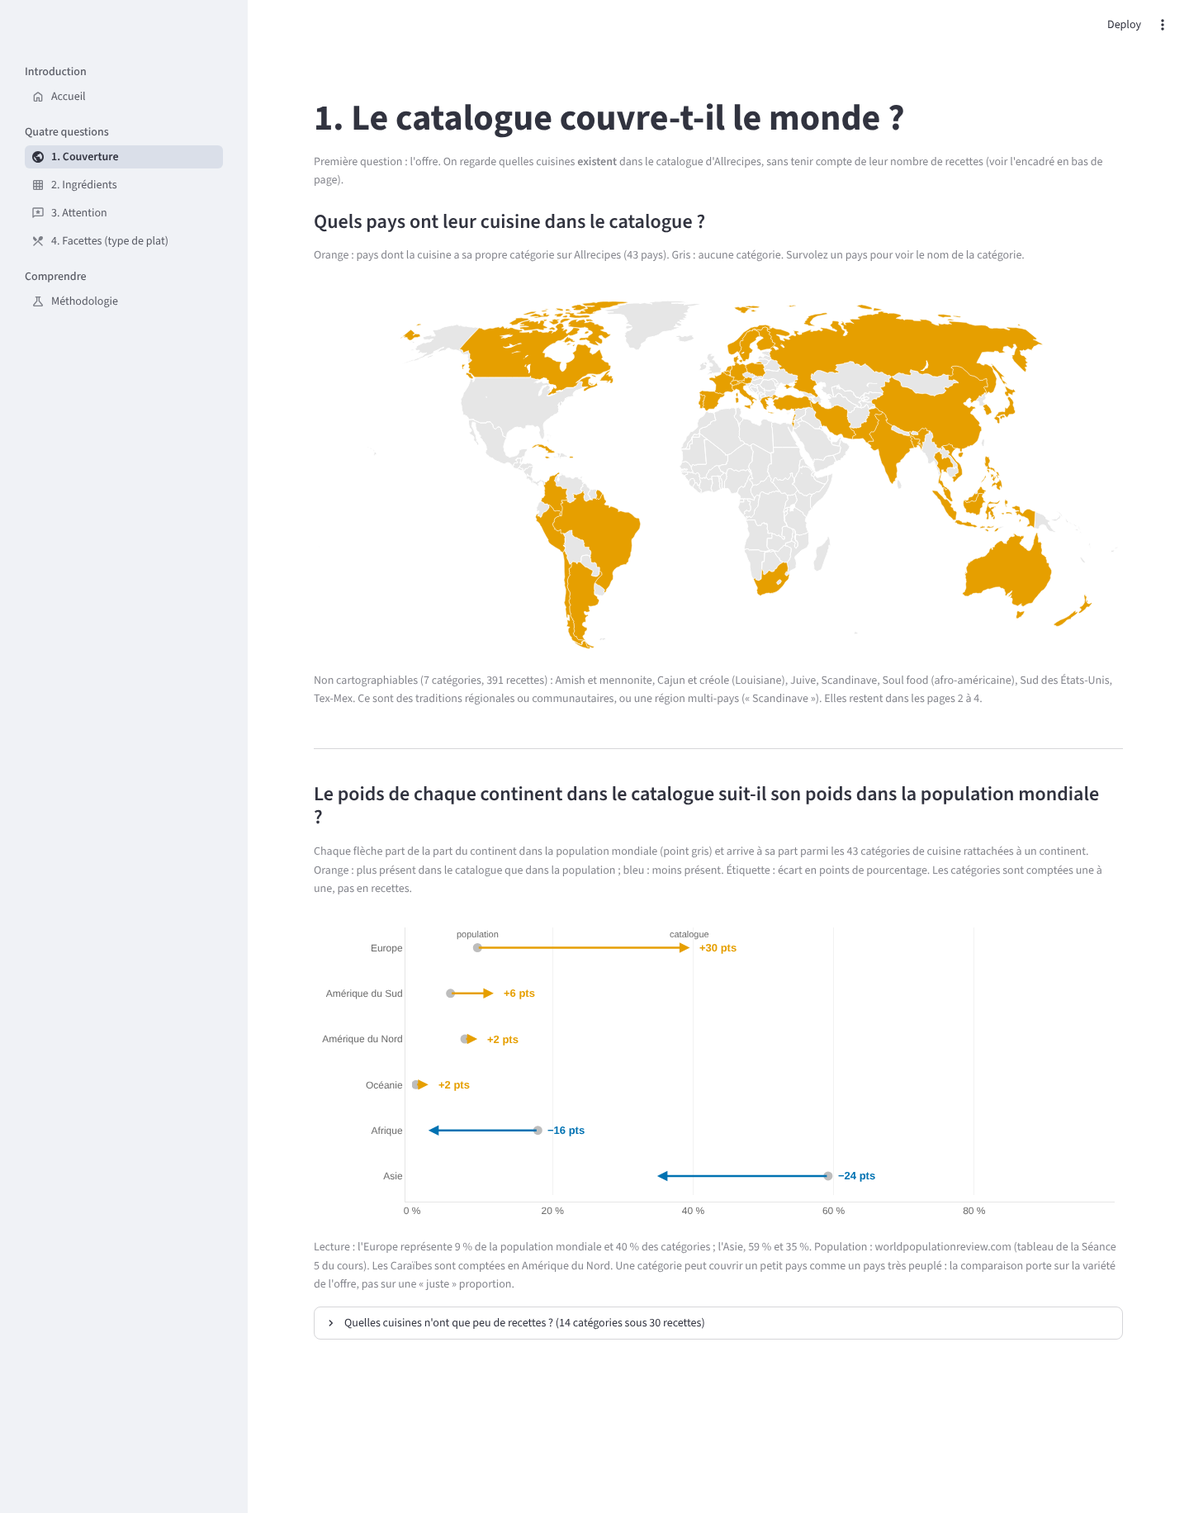
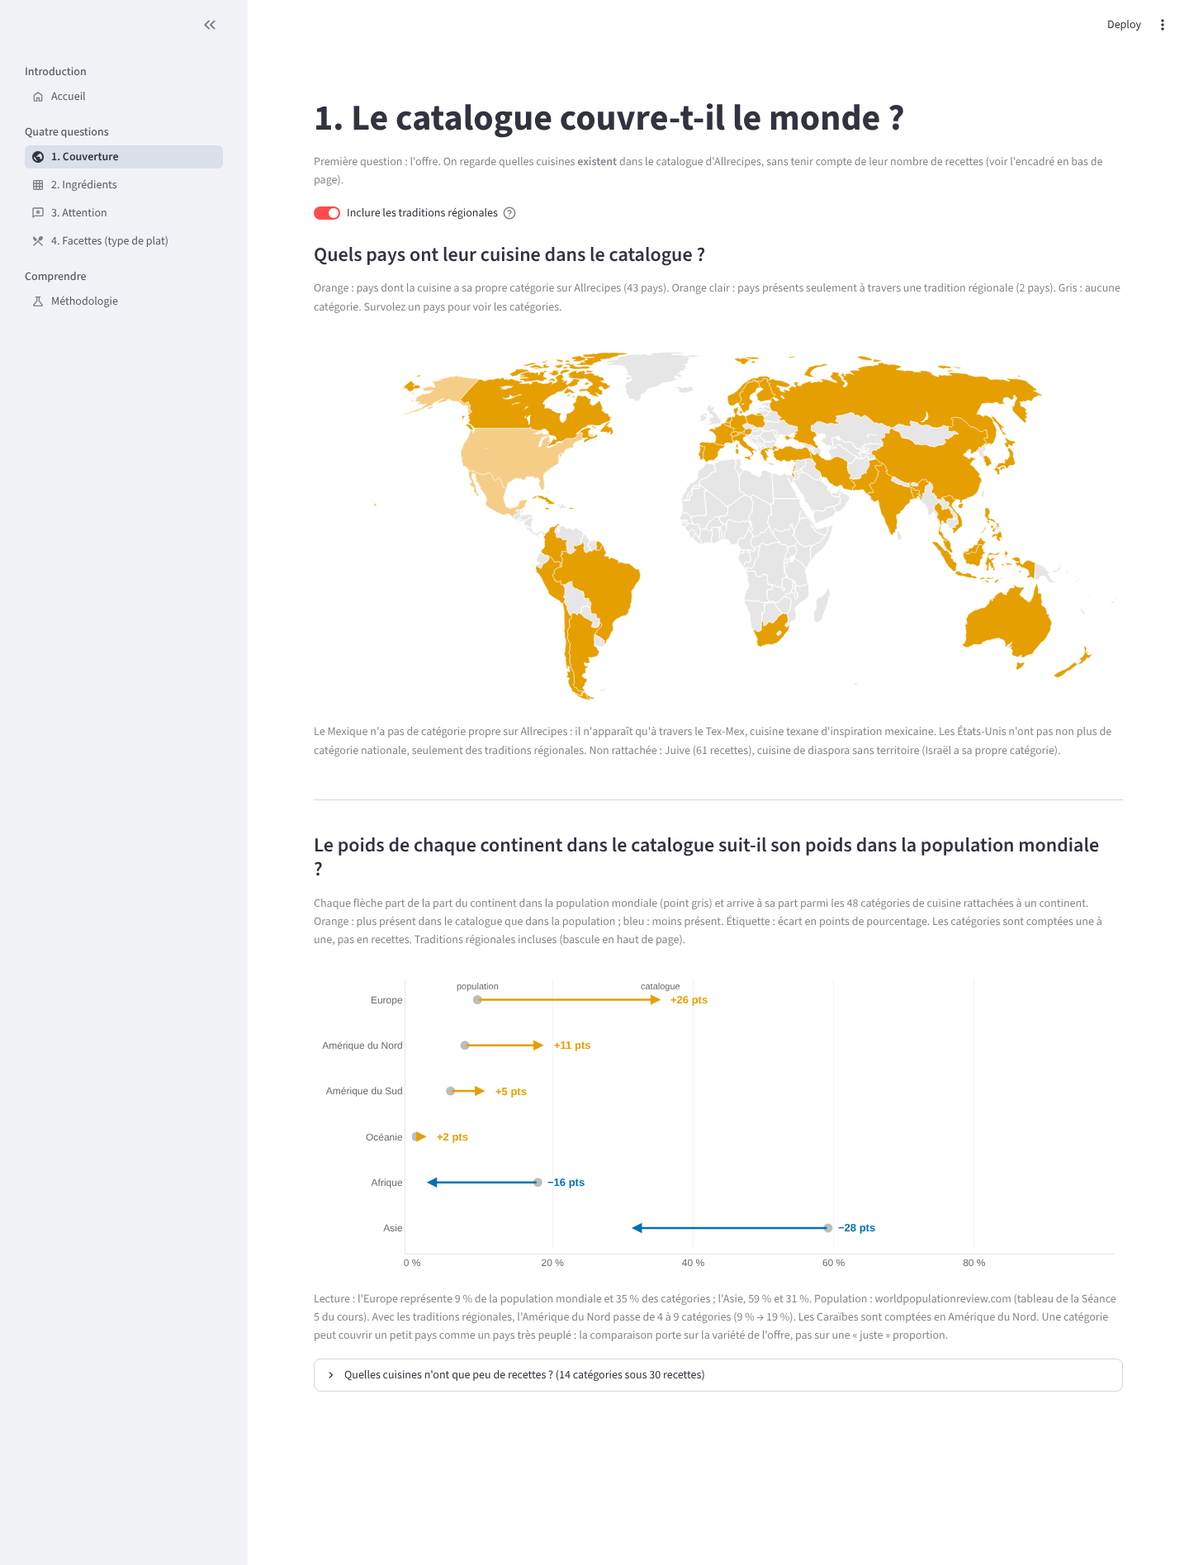
feat(page 1) : bascule « traditions régionales » — rattachement à leur territoire
- REGIONAL_ZONES (src/country_mapping.py) : traditions américaines et amish
  -> États-Unis, Tex-Mex -> États-Unis et Mexique, Scandinave -> DK/NO/SE ;
  cuisine juive non rattachée.
- Carte à trois états (nationale / indirecte / absente), teinte claire
  validée en simulation de daltonisme.
- Flèches par continent sur deux périmètres (43 ou 48 catégories).
- Méthodologie et journal mis à jour.

Claude-Session: https://claude.ai/code/session_01NHCujwLP8sEkThUbx8uit6

Changed region(s): [[0.25, 0.0622, 0.9375, 0.7778], [0.25, 0.7778, 0.9375, 0.9023], [0.0312, 0.0311, 0.0938, 0.2178]]

diff --git a/app_pages/1_Couverture.py b/app_pages/1_Couverture.py
@@ -4,7 +4,7 @@ import streamlit as st
 
 from src.load_data import load_processed, load_stats
 from src.theme import (
-    ACCENT, DIV_NEG, DIV_POS, GREY, GREY_LIGHT, MUTED, apply_theme,
+    ACCENT, ACCENT_LIGHT, DIV_NEG, DIV_POS, GREY, GREY_LIGHT, MUTED, apply_theme,
     chart_title, fmt_int, fmt_num, fmt_pct, show,
 )
 
@@ -20,22 +20,46 @@ st.caption(
     "recettes (voir l'encadré en bas de page)."
 )
 
-# --- Carte présent / absent ---------------------------------------------------
-not_mapped = catalog[(catalog["map_type"] != "single_country")
-                     & (~catalog["country"].isin(presence["country"]))]
-chart_title(
-    "Quels pays ont leur cuisine dans le catalogue ?",
-    f"Orange : pays dont la cuisine a sa propre catégorie sur Allrecipes "
-    f"({fmt_int(stats['n_pays_carte'])} pays). Gris : aucune catégorie. "
-    f"Survolez un pays pour voir le nom de la catégorie.",
+with_regional = st.toggle(
+    "Inclure les traditions régionales",
+    value=True,
+    help="Rattache les catégories qui ne sont pas des cuisines nationales à leur "
+         "territoire d'origine : soul food, cajun et créole, Sud des États-Unis, "
+         "amish et Tex-Mex aux États-Unis (Tex-Mex aussi au Mexique), Scandinave au "
+         "Danemark, à la Norvège et à la Suède. Désactivé : seules les catégories "
+         "nationales comptent.",
 )
+
+# --- Carte présent / absent ---------------------------------------------------
+NATIONAL, INDIRECT = "Catégorie nationale", "Présence indirecte (tradition régionale)"
+shown = presence if with_regional else presence[presence["statut"] == "nationale"]
+by_iso = (
+    shown.assign(label=shown["cuisine"].where(
+        shown["statut"] == "nationale", shown["cuisine"] + " (indirecte)"))
+    .groupby("iso3")
+    .agg(statut=("statut", lambda s: NATIONAL if (s == "nationale").any() else INDIRECT),
+         cuisines=("label", lambda s: "<br>".join(s)))
+    .reset_index()
+)
+n_national = int((by_iso["statut"] == NATIONAL).sum())
+n_indirect = int((by_iso["statut"] == INDIRECT).sum())
+not_mapped = catalog[~catalog["country"].isin(shown["country"])
+                     & (catalog["map_type"] != "single_country")]
+
+subtitle = (f"Orange : pays dont la cuisine a sa propre catégorie sur Allrecipes "
+            f"({fmt_int(n_national)} pays). ")
+if with_regional:
+    subtitle += (f"Orange clair : pays présents seulement à travers une tradition "
+                 f"régionale ({fmt_int(n_indirect)} pays). ")
+subtitle += "Gris : aucune catégorie. Survolez un pays pour voir les catégories."
+chart_title("Quels pays ont leur cuisine dans le catalogue ?", subtitle)
+
 fig = px.choropleth(
-    presence.assign(statut="Cuisine proposée"),
-    locations="iso3",
-    color="statut",
-    color_discrete_map={"Cuisine proposée": ACCENT},
-    hover_name="cuisine",
-    hover_data={"iso3": False, "statut": False},
+    by_iso, locations="iso3", color="statut",
+    color_discrete_map={NATIONAL: ACCENT, INDIRECT: ACCENT_LIGHT},
+    category_orders={"statut": [NATIONAL, INDIRECT]},
+    hover_name="cuisines",
+    hover_data={"iso3": False, "statut": False, "cuisines": False},
 )
 fig.update_traces(marker_line_color="white", marker_line_width=0.5)
 fig.update_geos(
@@ -49,18 +73,33 @@ fig.update_geos(
 apply_theme(fig, height=460)
 fig.update_layout(showlegend=False, margin=dict(l=0, r=0, t=0, b=0))
 show(fig)
-st.caption(
-    f"Non cartographiables ({len(not_mapped)} catégories, "
-    f"{fmt_int(not_mapped['n_recettes'].sum())} recettes) : "
-    + ", ".join(sorted(not_mapped["cuisine"]))
-    + ". Ce sont des traditions régionales ou communautaires, ou une région "
-    "multi-pays (« Scandinave »). Elles restent dans les pages 2 à 4."
-)
+
+if with_regional:
+    st.caption(
+        "Le Mexique n'a pas de catégorie propre sur Allrecipes : il n'apparaît qu'à "
+        "travers le Tex-Mex, cuisine texane d'inspiration mexicaine. Les États-Unis "
+        "n'ont pas non plus de catégorie nationale, seulement des traditions "
+        "régionales. Non rattachée : "
+        + ", ".join(f"{c} ({fmt_int(n)} recettes)"
+                    for c, n in zip(not_mapped["cuisine"], not_mapped["n_recettes"]))
+        + ", cuisine de diaspora sans territoire (Israël a sa propre catégorie)."
+    )
+else:
+    st.caption(
+        f"Non cartographiables ({len(not_mapped)} catégories, "
+        f"{fmt_int(not_mapped['n_recettes'].sum())} recettes) : "
+        + ", ".join(sorted(not_mapped["cuisine"]))
+        + ". Ce sont des traditions régionales ou communautaires, ou une région "
+        "multi-pays (« Scandinave »). Elles restent dans les pages 2 à 4."
+    )
 
 st.divider()
 
 # --- Diagramme à flèches par continent ------------------------------------------
-n_cont = int(stats["n_categories_continent"])
+perimetre = "regional" if with_regional else "national"
+continents = continents[continents["perimetre"] == perimetre]
+n_cont = int(stats["n_categories_continent_regional" if with_regional
+                   else "n_categories_continent"])
 chart_title(
     "Le poids de chaque continent dans le catalogue suit-il son poids dans la population mondiale ?",
     f"Chaque flèche part de la part du continent dans la population mondiale "
@@ -68,7 +107,9 @@ chart_title(
     f"cuisine rattachées à un continent. Orange : plus présent dans le "
     f"catalogue que dans la population ; bleu : moins présent. Étiquette : "
     f"écart en points de pourcentage. Les catégories sont comptées une à une, "
-    f"pas en recettes.",
+    f"pas en recettes."
+    + (" Traditions régionales incluses (bascule en haut de page)." if with_regional
+       else " Catégories nationales et multi-pays seulement."),
 )
 
 c = continents.sort_values("ecart_points")  # le plus sous-représenté en bas
@@ -113,6 +154,9 @@ fig.update_xaxes(range=[0, 100], ticksuffix=" %", showgrid=True,
 fig.update_yaxes(title_text=None)
 show(fig)
 
+all_perim = load_processed("continent_summary").set_index(["perimetre", "continent"])
+na_nat = all_perim.loc[("national", "Amérique du Nord")]
+na_reg = all_perim.loc[("regional", "Amérique du Nord")]
 asia = continents.set_index("continent").loc["Asie"]
 europe = continents.set_index("continent").loc["Europe"]
 st.caption(
@@ -120,7 +164,11 @@ st.caption(
     f"population mondiale et {fmt_pct(europe['pct_categories'])} des catégories ; "
     f"l'Asie, {fmt_pct(asia['pct_population'])} et "
     f"{fmt_pct(asia['pct_categories'])}. Population : worldpopulationreview.com "
-    f"(tableau de la Séance 5 du cours). Les Caraïbes sont comptées en Amérique "
+    f"(tableau de la Séance 5 du cours). Avec les traditions régionales, l'Amérique "
+    f"du Nord passe de {fmt_int(na_nat['n_categories'])} à "
+    f"{fmt_int(na_reg['n_categories'])} catégories "
+    f"({fmt_pct(na_nat['pct_categories'])} → {fmt_pct(na_reg['pct_categories'])}). "
+    f"Les Caraïbes sont comptées en Amérique "
     f"du Nord. Une catégorie peut couvrir un petit pays comme un pays très "
     f"peuplé : la comparaison porte sur la variété de l'offre, pas sur "
     f"une « juste » proportion."

diff --git a/data_processing/build_diversity_data.py b/data_processing/build_diversity_data.py
@@ -32,7 +32,8 @@ from scipy.spatial.distance import pdist, squareform
 from scipy.stats import spearmanr
 
 from src.country_mapping import (
-    CONTINENTS, CUISINE_LABELS_FR, EXTRA_MAP_ISO3, attach_iso3, get_continent,
+    CONTINENTS, CUISINE_LABELS_FR, EXTRA_MAP_ISO3, REGIONAL_ZONES, attach_iso3,
+    get_continent, get_zone_continent,
 )
 from src.dish_type import DESSERT, DISH_GROUPS, classify_dish
 from src.ingredients import INGREDIENT_LABELS, ingredient_presence
@@ -80,25 +81,41 @@ def build_coverage(df: pd.DataFrame) -> tuple[pd.DataFrame, pd.DataFrame, pd.Dat
         .size().reset_index(name="n_recettes")
         .sort_values("n_recettes", ascending=False)
     )
+    catalog["continent_zone"] = catalog["country"].map(get_zone_continent)
 
     pop = pd.read_csv(REF_DIR / "population_continent.csv")
     assert set(pop["continent"]) == set(CONTINENTS), "continents incohérents"
     pop["pct_population"] = pop["population_millions"] / pop["population_millions"].sum()
 
-    with_cont = catalog.dropna(subset=["continent"])
-    cats = with_cont.groupby("continent").size().rename("n_categories")
-    summary = pop.merge(cats, left_on="continent", right_index=True, how="left")
-    summary["n_categories"] = summary["n_categories"].fillna(0).astype(int)
-    summary["pct_categories"] = summary["n_categories"] / summary["n_categories"].sum()
-    summary["ecart_points"] = 100 * (summary["pct_categories"] - summary["pct_population"])
-    summary = summary.sort_values("ecart_points").reset_index(drop=True)
+    # Deux périmètres (bascule de la page 1) : catégories rattachées
+    # directement à un continent, ou aussi les traditions régionales
+    # rattachées à leur territoire d'origine (src/country_mapping.REGIONAL_ZONES).
+    summaries = []
+    for perimetre, col in [("national", "continent"), ("regional", "continent_zone")]:
+        cats = catalog.dropna(subset=[col]).groupby(col).size().rename("n_categories")
+        summary = pop.merge(cats, left_on="continent", right_index=True, how="left")
+        summary["n_categories"] = summary["n_categories"].fillna(0).astype(int)
+        summary["pct_categories"] = summary["n_categories"] / summary["n_categories"].sum()
+        summary["ecart_points"] = 100 * (summary["pct_categories"] - summary["pct_population"])
+        summary["perimetre"] = perimetre
+        summaries.append(summary.sort_values("ecart_points"))
+    summary = pd.concat(summaries, ignore_index=True)
 
-    present = catalog[catalog["map_type"] == "single_country"][["iso3", "country", "cuisine"]]
-    extra = [
-        {"iso3": iso, "country": cat, "cuisine": CUISINE_LABELS_FR[cat]}
+    # Présence sur la carte : « nationale » (catégorie propre au pays) ou
+    # « indirecte » (tradition régionale ou catégorie multi-pays).
+    rows = [
+        {"iso3": r.iso3, "country": r.country, "cuisine": r.cuisine, "statut": "nationale"}
+        for r in catalog[catalog["map_type"] == "single_country"].itertuples()
+    ]
+    rows += [
+        {"iso3": iso, "country": cat, "cuisine": CUISINE_LABELS_FR[cat], "statut": "nationale"}
         for cat, isos in EXTRA_MAP_ISO3.items() for iso in isos
     ]
-    map_presence = pd.concat([present, pd.DataFrame(extra)], ignore_index=True)
+    rows += [
+        {"iso3": iso, "country": cat, "cuisine": CUISINE_LABELS_FR[cat], "statut": "indirecte"}
+        for cat, zone in REGIONAL_ZONES.items() for iso in zone["iso3"]
+    ]
+    map_presence = pd.DataFrame(rows)
     return catalog, summary, map_presence
 
 
@@ -338,7 +355,9 @@ def build():
         "n_categories_continent": int(catalog["continent"].notna().sum()),
         "n_categories_single_country": int((catalog["map_type"] == "single_country").sum()),
         "n_recettes_single_country": int(catalog.loc[catalog["map_type"] == "single_country", "n_recettes"].sum()),
-        "n_pays_carte": int(map_presence["iso3"].nunique()),
+        "n_pays_carte": int(map_presence.loc[map_presence["statut"] == "nationale", "iso3"].nunique()),
+        "n_pays_carte_avec_regional": int(map_presence["iso3"].nunique()),
+        "n_categories_continent_regional": int(catalog["continent_zone"].notna().sum()),
         "seuil_plafond": CAP_RECIPES,
         "annee_recente": int(RECENT_FROM[:4]),
         "n_categories_plafond": int((catalog["n_recettes"] >= CAP_RECIPES).sum()),
@@ -364,7 +383,7 @@ def build():
         OUT_DIR / "diversity_stats.parquet", index=False)
 
     # Tableau de contrôle (valeurs du brief)
-    cs = continent_summary.set_index("continent")
+    cs = continent_summary[continent_summary["perimetre"] == "national"].set_index("continent")
     pays_freq = freq_matrix(freq, "tout")
     pays_freq = pays_freq[pays_freq.index.isin(catalog.loc[catalog.map_type == "single_country", "country"])]
     att = attention.set_index("country")["avis_par_recette"]

diff --git a/app_pages/6_Methodologie.py b/app_pages/6_Methodologie.py
@@ -77,23 +77,36 @@ st.markdown(
 
 st.subheader("4. Continents et population")
 st.markdown(
-    f"{fmt_int(stats['n_categories_continent'])} catégories sont rattachées à un "
-    f"continent (les Caraïbes en Amérique du Nord ; « Australienne et "
-    f"néo-zélandaise » en Océanie ; « Scandinave » en Europe). Les traditions "
-    f"régionales et communautaires restent hors de cette comparaison. Population : "
-    f"tableau worldpopulationreview.com fourni en Séance 5 du cours, agrégé par "
-    f"continent (`data/reference/population_continent.csv`). Les catégories sont "
-    f"comptées une à une, pas pondérées par leur nombre de recettes."
+    f"{fmt_int(stats['n_categories_continent'])} catégories sont rattachées "
+    f"directement à un continent (les Caraïbes en Amérique du Nord ; « Australienne "
+    f"et néo-zélandaise » en Océanie ; « Scandinave » en Europe). La bascule "
+    f"« Inclure les traditions régionales » de la page 1 rattache aussi les "
+    f"traditions à leur territoire d'origine (`REGIONAL_ZONES` dans "
+    f"`src/country_mapping.py`) : soul food, cajun et créole, Sud des États-Unis, "
+    f"amish et Tex-Mex aux États-Unis, donc à l'Amérique du Nord "
+    f"({fmt_int(stats['n_categories_continent_regional'])} catégories au total). Sur "
+    f"la carte, ces pays apparaissent en « présence indirecte » ; le Mexique n'y "
+    f"figure qu'à travers le Tex-Mex, faute de catégorie mexicaine. La cuisine juive "
+    f"(diaspora, sans territoire ; Israël a sa propre catégorie) reste non "
+    f"rattachée. Population : tableau worldpopulationreview.com fourni en Séance 5 "
+    f"du cours, agrégé par continent (`data/reference/population_continent.csv`). "
+    f"Les catégories sont comptées une à une, pas pondérées par leur nombre de "
+    f"recettes."
 )
+nat = continents[continents["perimetre"] == "national"].set_index("continent")
+reg = continents[continents["perimetre"] == "regional"].set_index("continent")
 st.dataframe(
-    continents.sort_values("pct_population", ascending=False).assign(
-        pop=lambda d: d["pct_population"].map(lambda x: fmt_pct(x, 1)),
-        cat=lambda d: d["pct_categories"].map(lambda x: fmt_pct(x, 1)),
-        ecart=lambda d: d["ecart_points"].map(lambda x: f"{fmt_num(x, 1)} pts"),
-    )[["continent", "population_millions", "pop", "n_categories", "cat", "ecart"]]
+    nat.assign(
+        pop=nat["pct_population"].map(lambda x: fmt_pct(x, 1)),
+        cat=nat["pct_categories"].map(lambda x: fmt_pct(x, 1)),
+        cat_reg=reg["pct_categories"].map(lambda x: fmt_pct(x, 1)),
+        n_reg=reg["n_categories"],
+    ).sort_values("pct_population", ascending=False).reset_index()
+    [["continent", "population_millions", "pop", "n_categories", "cat", "n_reg", "cat_reg"]]
     .rename(columns={"continent": "Continent", "population_millions": "Population (M)",
                      "pop": "% population", "n_categories": "Catégories",
-                     "cat": "% catégories", "ecart": "Écart"}),
+                     "cat": "% catégories", "n_reg": "Catégories (avec traditions)",
+                     "cat_reg": "% catégories (avec traditions)"}),
     hide_index=True, width="stretch",
 )
 

diff --git a/src/country_mapping.py b/src/country_mapping.py
@@ -187,3 +187,38 @@ CUISINE_LABELS_FR = {
     "Jewish": "Juive",
     "Amish and Mennonite": "Amish et mennonite",
 }
+
+
+# ---------------------------------------------------------------------------
+# Rattachement INDIRECT des catégories non nationales (bascule de la page 1).
+#
+# Ces catégories ne sont pas des cuisines nationales, mais elles ont un
+# territoire d'origine identifiable. Quand la bascule « traditions
+# régionales » est active, on les compte dans le continent de ce territoire
+# et on colore les pays concernés comme « présence indirecte » (teinte
+# distincte de la présence par une catégorie nationale).
+#
+# - Les traditions régionales américaines et amish -> États-Unis.
+# - Tex-Mex -> États-Unis (cuisine texane) ET Mexique : le Mexique n'a PAS de
+#   catégorie propre sur Allrecipes, il n'est présent qu'à travers cette
+#   cuisine de fusion. On le signale explicitement plutôt que de le colorer
+#   comme une cuisine nationale.
+# - Scandinave -> Danemark, Norvège, Suède (qui ont déjà leur catégorie).
+# - Juive : cuisine de diaspora sans territoire ; Israël a déjà sa propre
+#   catégorie. Reste non rattachée.
+# ---------------------------------------------------------------------------
+REGIONAL_ZONES = {
+    "Soul Food":           {"continent": "Amérique du Nord", "iso3": ["USA"]},
+    "Cajun and Creole":    {"continent": "Amérique du Nord", "iso3": ["USA"]},
+    "Southern Recipes":    {"continent": "Amérique du Nord", "iso3": ["USA"]},
+    "Amish and Mennonite": {"continent": "Amérique du Nord", "iso3": ["USA"]},
+    "Tex-Mex":             {"continent": "Amérique du Nord", "iso3": ["USA", "MEX"]},
+    "Scandinavian":        {"continent": "Europe", "iso3": ["DNK", "NOR", "SWE"]},
+}
+
+
+def get_zone_continent(country: str) -> str | None:
+    """Continent en comptant aussi les rattachements indirects."""
+    if country in REGIONAL_ZONES:
+        return REGIONAL_ZONES[country]["continent"]
+    return get_continent(country)

diff --git a/src/theme.py b/src/theme.py
@@ -21,6 +21,10 @@ import streamlit as st
 GREY = "#BDBDBD"
 GREY_LIGHT = "#E6E6E6"
 ACCENT = "#E69F00"  # orange Okabe-Ito
+# Version claire de l'accent, pour un état « intermédiaire » (présence
+# indirecte sur la carte). Écart de couleur ΔE ≥ 25 avec l'accent et avec le
+# gris clair, y compris en simulation de deutéranopie, protanopie et tritanopie.
+ACCENT_LIGHT = "#F6CD86"
 
 # Divergente (sens d'un écart) : deux teintes distinctes, lisibles par les
 # daltoniens, autour d'un point neutre.

diff --git a/JOURNAL_IA.md b/JOURNAL_IA.md
@@ -78,6 +78,35 @@ quelles cuisines ajouter ou mettre en avant.
   valeur dans chaque case (Séance 4, exercice 6) pour éviter un second
   graphique en barres.
 
+### 1.3 bis Traditions régionales rattachées à leur territoire (retour de l'équipe)
+
+Première version : les 7 catégories non nationales (soul food, cajun et
+créole, Sud des États-Unis, amish, Tex-Mex, juive, scandinave) étaient
+« non cartographiables » et hors comparaison par continent. Retour de
+l'équipe : elles ont un territoire d'origine, il faut en tenir compte.
+
+Décision : bascule **« Inclure les traditions régionales »** (activée par
+défaut) sur la page 1, qui pilote la carte et les flèches.
+- Rattachements (`REGIONAL_ZONES`) : traditions américaines et amish →
+  États-Unis ; Tex-Mex → États-Unis **et** Mexique ; Scandinave →
+  Danemark, Norvège, Suède ; juive non rattachée (diaspora, Israël a déjà
+  sa catégorie).
+- Carte à **trois états** plutôt que deux : orange = catégorie nationale ;
+  orange clair = présence indirecte (États-Unis, Mexique) ; gris = absent.
+  Colorer le Mexique comme une cuisine nationale aurait été trompeur : il
+  n'existe pas de catégorie « mexicaine », seulement le Tex-Mex, cuisine
+  texane d'inspiration mexicaine. Le même raisonnement vaut pour les
+  États-Unis, sans catégorie nationale. Teinte claire choisie par calcul
+  d'écart ΔE (≥ 25 avec l'orange et le gris, y compris en simulation de
+  daltonisme).
+- Flèches : 48 catégories au lieu de 43 ; l'Amérique du Nord passe de 4 à
+  9 catégories, de +2 à +11 points d'écart avec sa part de population.
+  Les valeurs de contrôle du brief restent vérifiées sur le périmètre
+  national (bascule désactivée).
+- Limite assumée : compter 5 traditions américaines comme 5 « cuisines »
+  reflète le découpage éditorial d'Allrecipes, pas un poids culinaire ;
+  c'est précisément ce que la bascule rend visible.
+
 ### 1.4 Bugs corrigés, validations, vérifications
 
 - **Pluriels des ingrédients** : `src/ingredients.py` cherchait `\begg\b`,
@@ -227,10 +256,11 @@ pas comme un résultat.
 - Proposition brute : choroplèthe continue du nombre de recettes.
 - Critique : cf. ancienne carte (artefact du plafond, Séance 2).
 - Alternatives écartées : dégradé ; carte par continent (masque les pays).
-- Version finale : couleur **discrète à deux états** (orange = cuisine
-  proposée, gris clair = aucune), 43 pays (41 catégories « pays » + Australie
-  et Nouvelle-Zélande), sans légende (le sous-titre explique). Tâche :
-  localiser. Note listant les 7 catégories non cartographiables (calculée).
+- Version finale : couleur **discrète** (orange = catégorie nationale,
+  43 pays ; orange clair = présence indirecte par une tradition régionale,
+  bascule activée ; gris clair = aucune), sans légende (le sous-titre
+  explique). Tâche : localiser. Note calculée sur les catégories non
+  rattachées et sur le cas du Mexique (voir § 1.3 bis).
 - Décision : **modifié**.
 
 ### Page 1 — Diagramme à flèches par continent
@@ -300,7 +330,7 @@ pas comme un résultat.
 |---|---|---|---|---|---|
 | Tâche → graphique (S4) | localiser | comparer 2 états | motif | classer | composition |
 | Titre = question + sous-titre (S3) | oui | oui | oui | oui | oui |
-| Couleur au service de la tâche | 2 états | sens de l'écart | intensité | accent top 5 | 4 groupes |
+| Couleur au service de la tâche | 2 ou 3 états | sens de l'écart | intensité | accent top 5 | 4 groupes |
 | Barres à zéro (S3) | — | axe 0–100 | — | oui | 0–100 % |
 | Pas de double encodage | oui | oui (pas de couleur par continent) | colorbar retirée | oui | oui |
 | Composition = vrai tout (S5) | — | — | — | pas d'empilement | oui |
